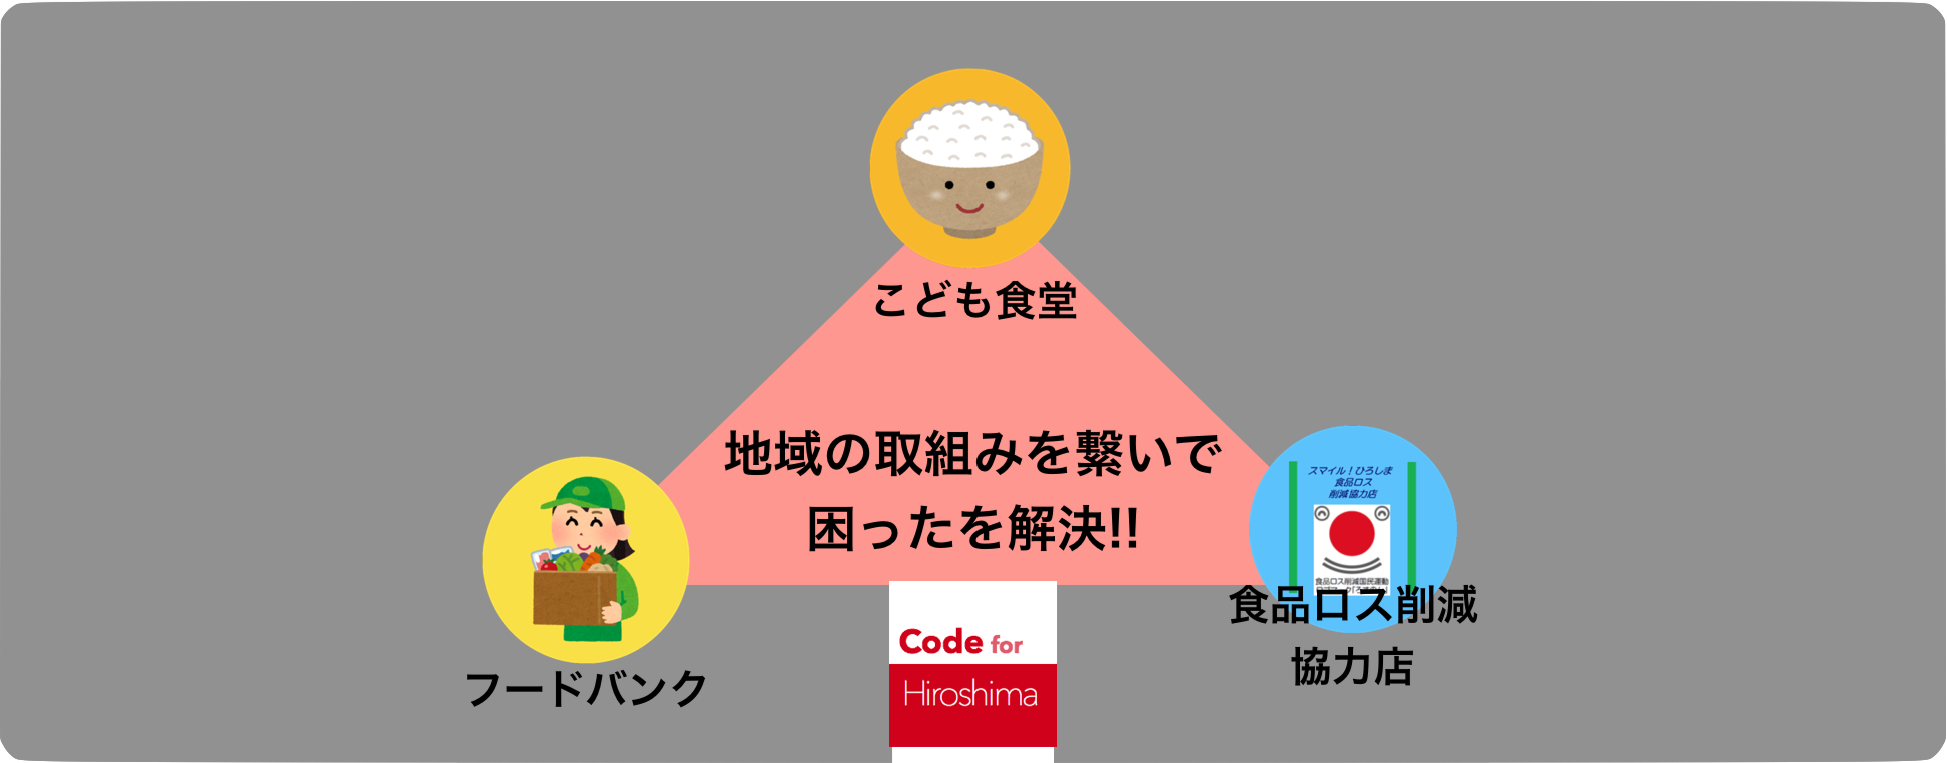
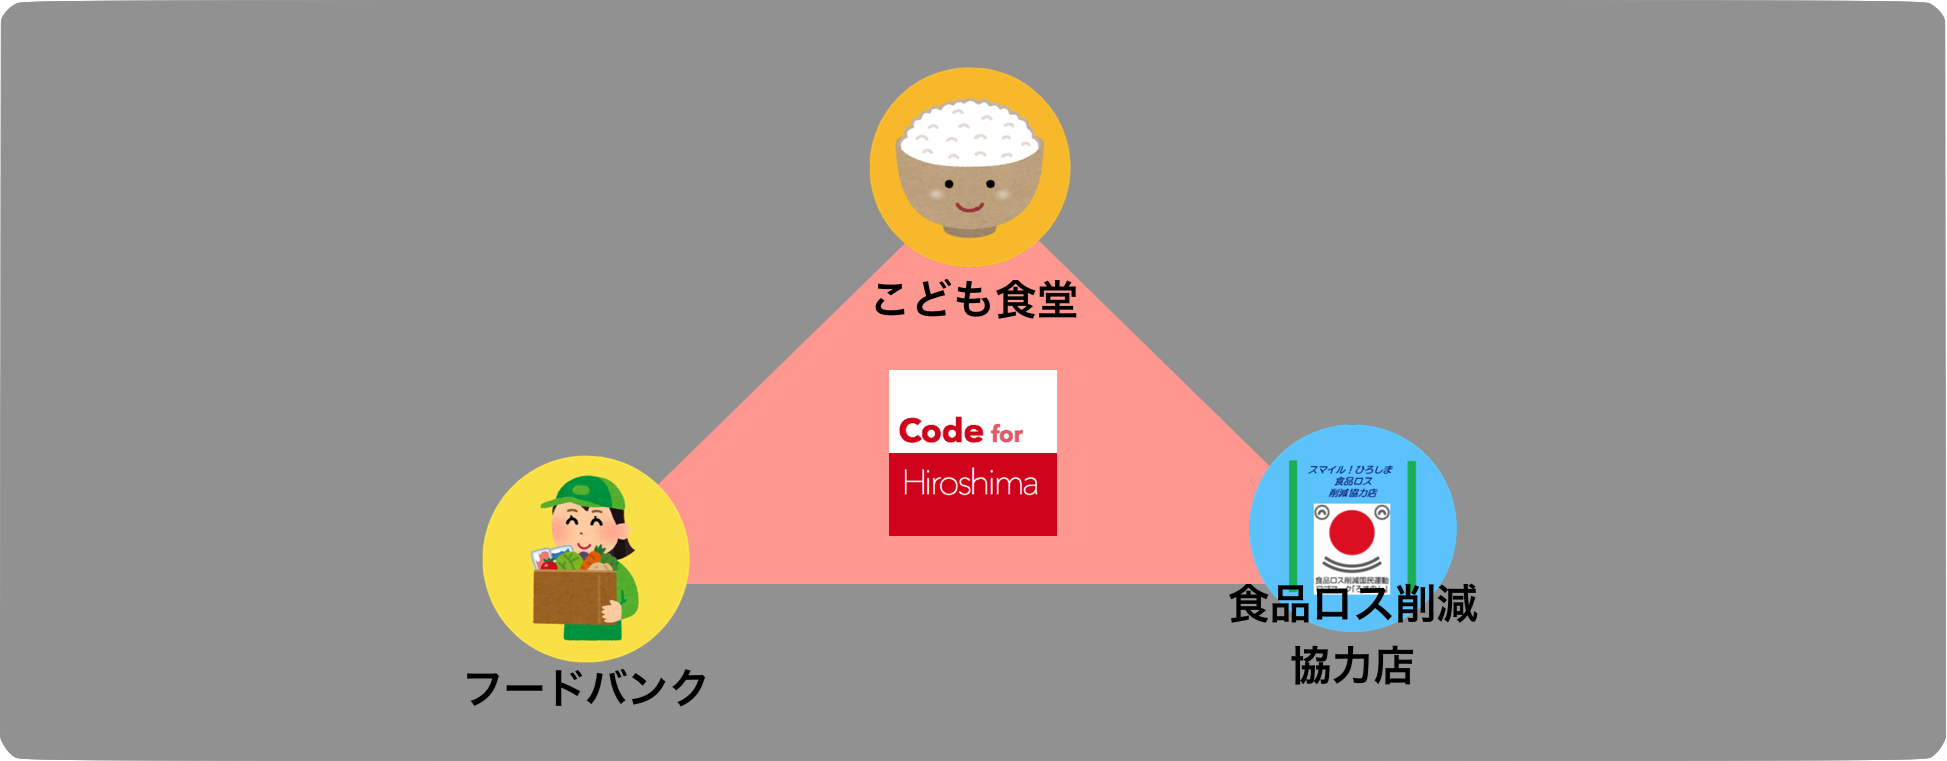
Banner周りを再度修正

diff --git a/UDC2017/bootstrap.html b/UDC2017/bootstrap.html
@@ -53,7 +53,7 @@
           <div class="container">
             <div class="carousel-caption d-none d-md-block text-left">
               <h1>もったいないNO</h1>
-              <p><bold>もったいないNO</bold>は、食の「もったいない」と食の「困った」を解決するための取組み.</p>
+              <p><bold>もったいないNO</bold>は、食の「もったいない」と食の「困った」を解決するための取組み.地域の取組みを繋いで困ったを解決!!</p>
               <p><a class="btn btn-lg btn-primary" href="#" role="button">Sign up today</a></p>
             </div>
           </div>
